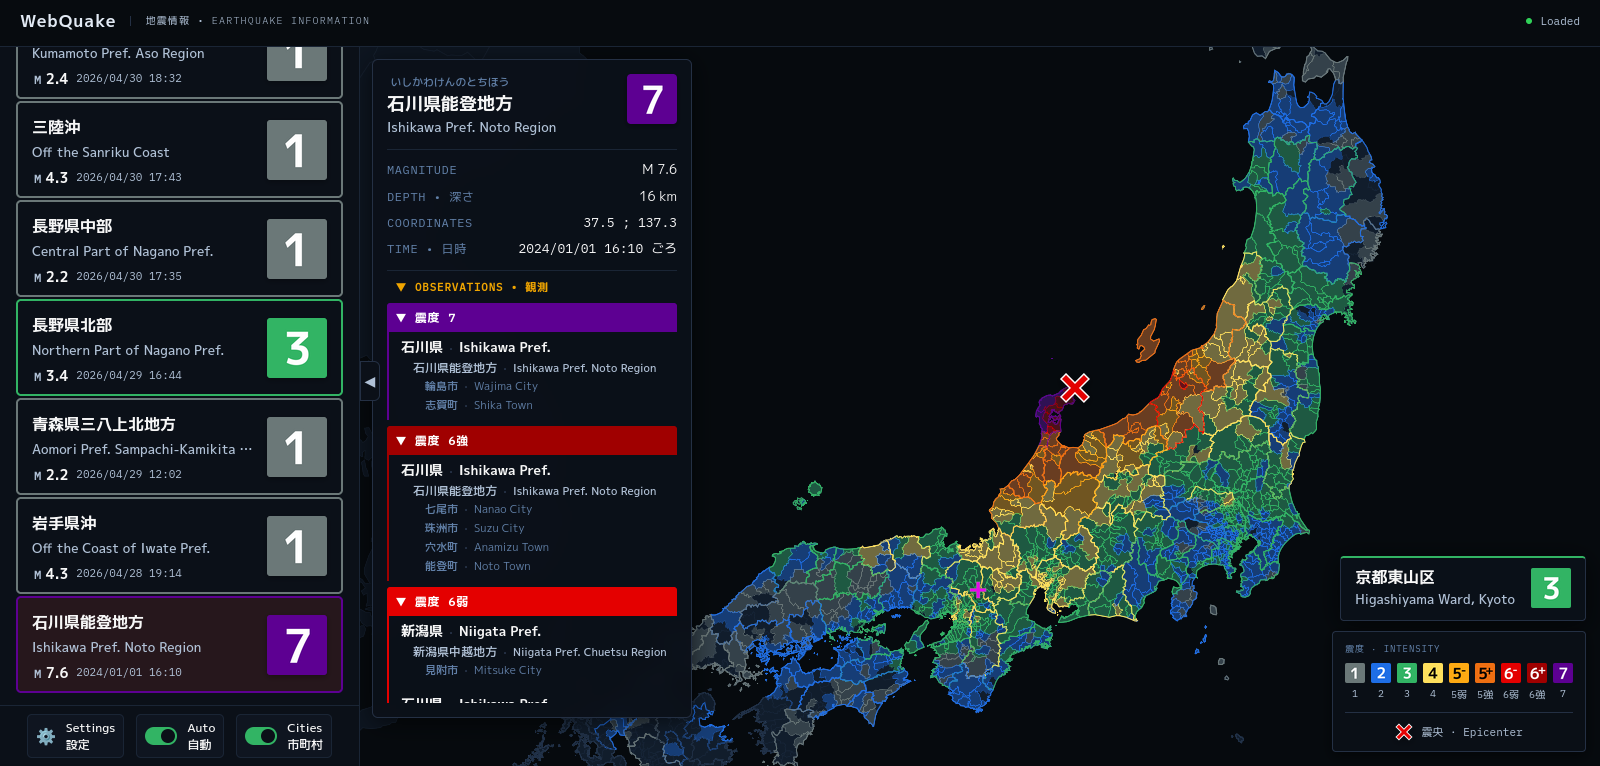
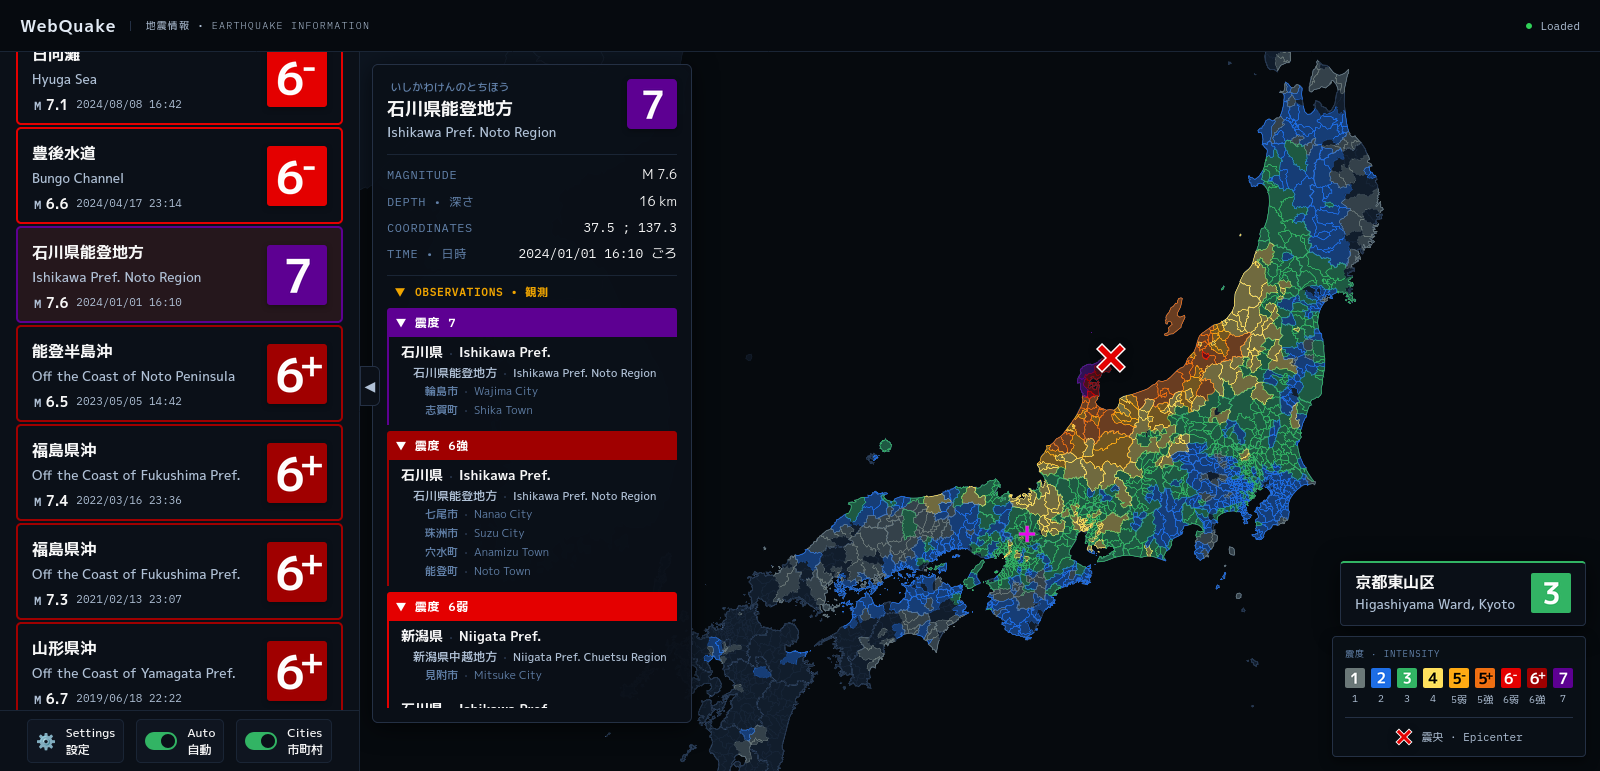
forecast line visibility

diff --git a/src/map.js b/src/map.js
@@ -166,6 +166,7 @@ function buildStyle(useCityAreas = true) {
         id: "forecast-line",
         type: "line",
         source: "forecast_areas",
+        layout: { visibility: !useCityAreas ? 'visible' : 'none' },
         paint: {
           "line-color": [
             "case",
@@ -381,6 +382,7 @@ export function updateCityAreasVisibility(map, useCityAreas) {
   map.setLayoutProperty("cities-line", "visibility", visibility);
   
   map.setLayoutProperty("forecast-fill", "visibility", invVisibility);
+  map.setLayoutProperty("forecast-line", "visibility", invVisibility);
 }
 
 /**
